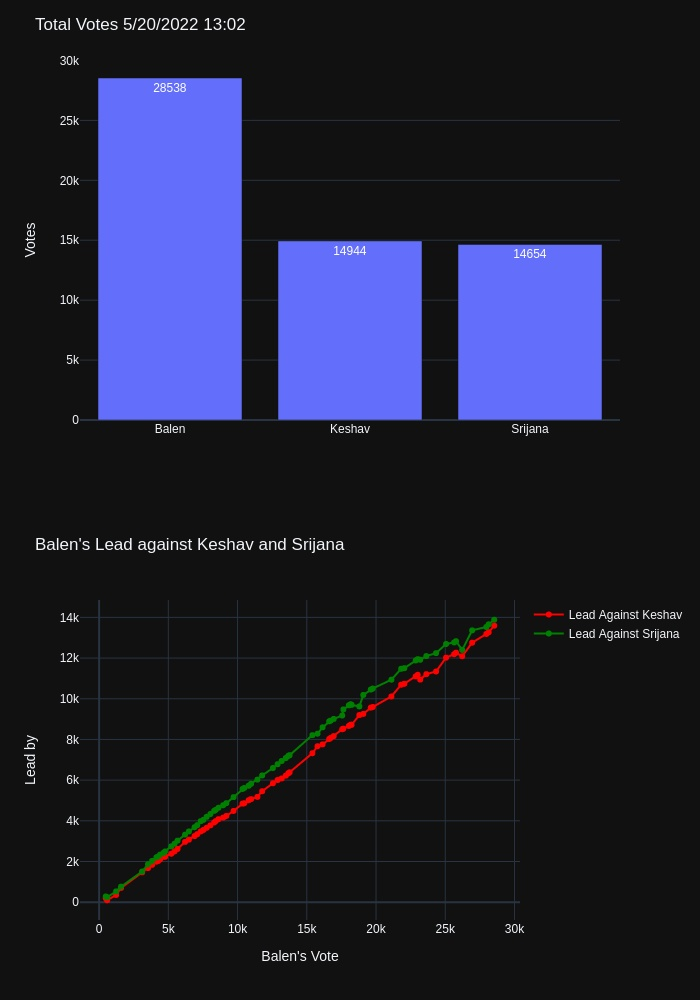
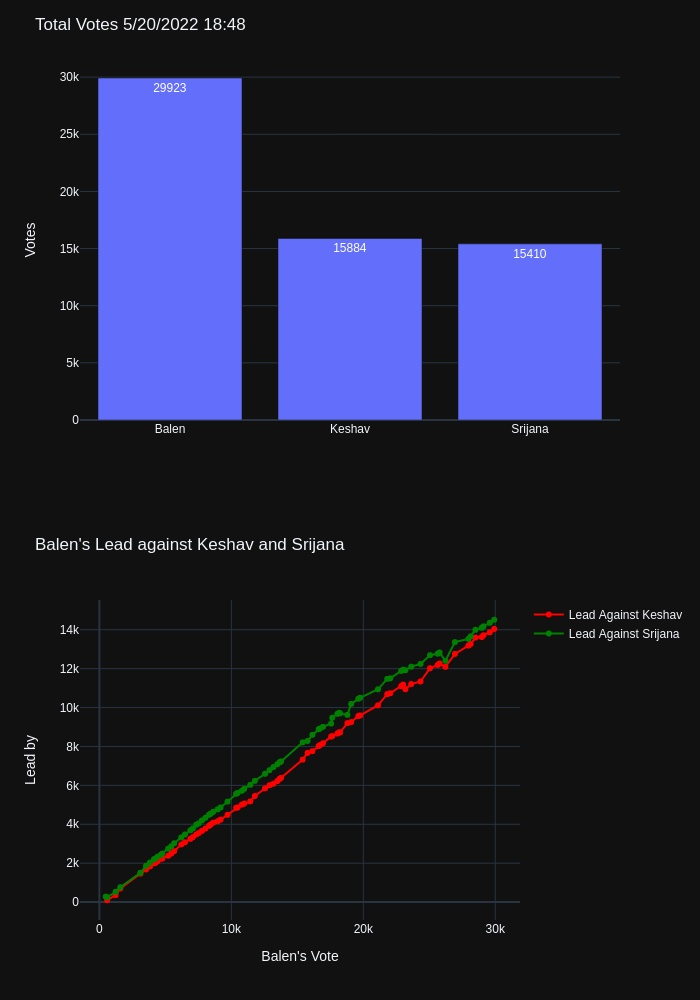
add data

diff --git a/README.md b/README.md
@@ -1,4 +1,4 @@
-## Last Update: 5/20/2022 13:02
+## Last Update: 5/20/2022 18:48
 
 ## Balen's Lead against Keshav Sthapit and Srijana Singh
 ![ScreenShot](final.jpg)
